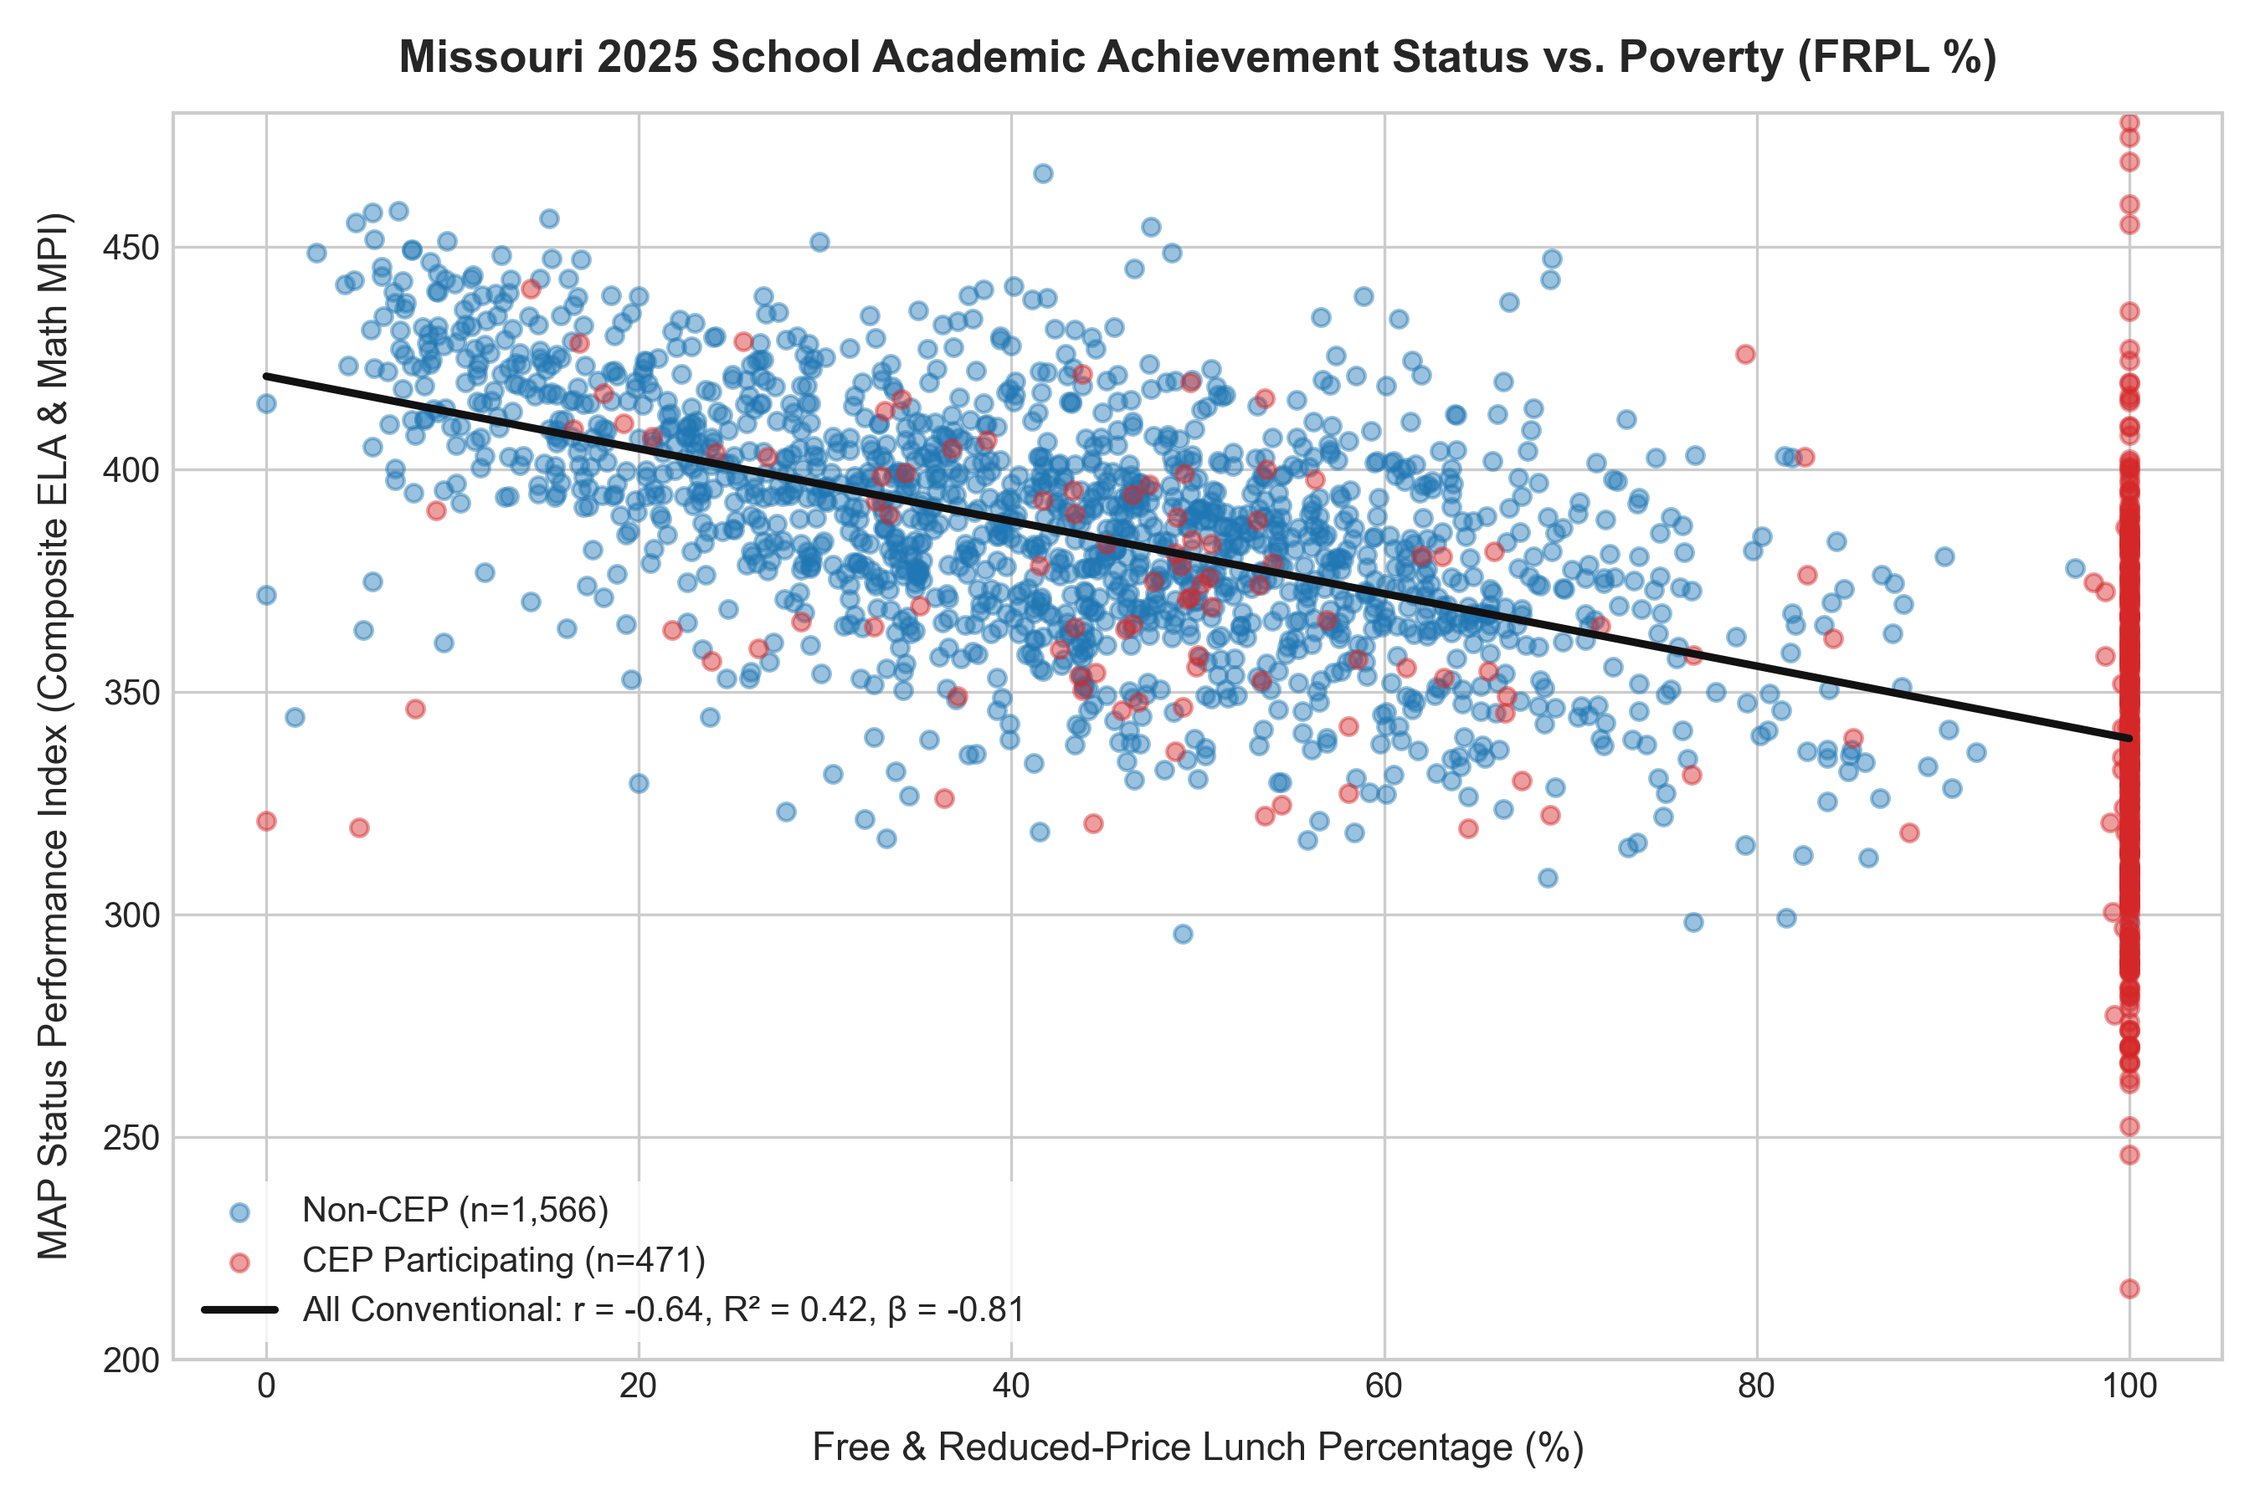
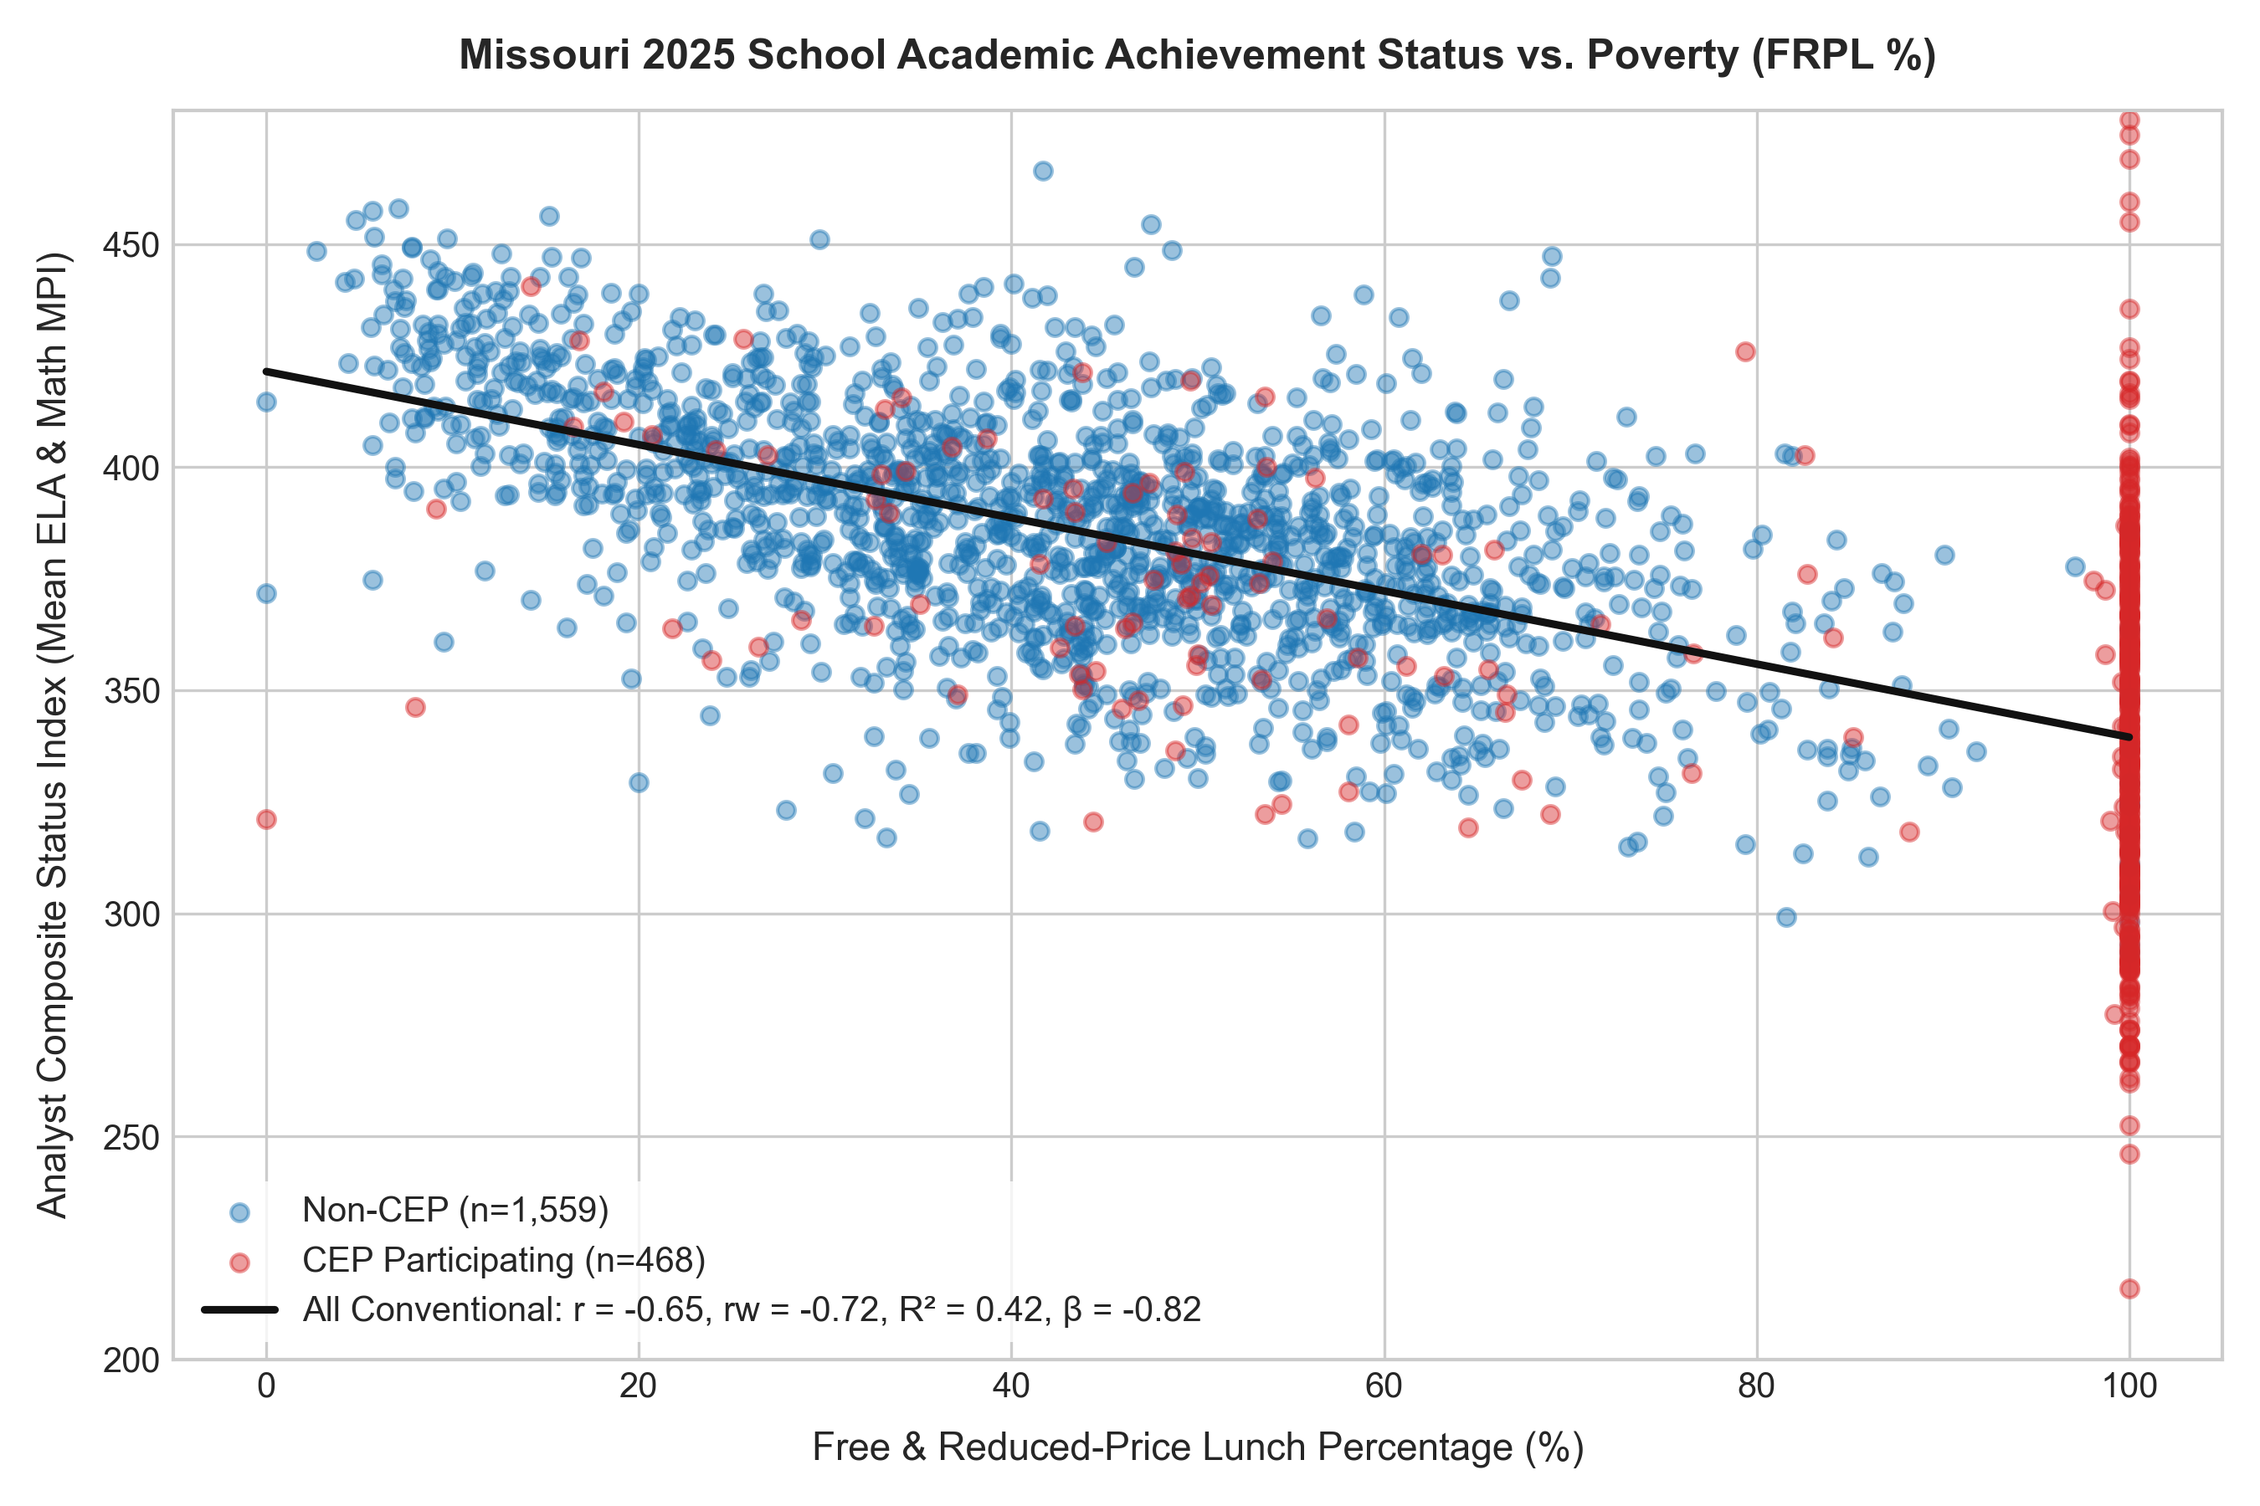
Complete Phase 6.1 Calibration Review with calibrated metrics, tests, and documentation

diff --git a/2026/2026-10-04-missouri-accountability-signal/artifacts/03b_accountability_calibration.md b/2026/2026-10-04-missouri-accountability-signal/artifacts/03b_accountability_calibration.md
@@ -1,0 +1,110 @@
+# Artifact 03b: Accountability Signal Calibration Review
+
+## 1. Overview and Purpose
+
+This artifact documents the comprehensive calibration review of **Phases 0 through 6** for the **Missouri Accountability Signal** project. Following methodological review, several structural refinements were applied:
+1. Distinguishing the official growth diagnostic (**Direct Certification**) from the public socioeconomic metric (**FRPL**).
+2. Clarifying that public MSIP 6 growth measures are **discretized accountability points** derived from the state value-added model, not continuous student-level residuals.
+3. Renaming analyst-created composite metrics (`analyst_composite_status_mpi` and `apr_growth_pts_pct`) and enforcing strict **complete-case subject requirements**.
+4. Implementing an exact **enrollment-weighted Pearson correlation** ($r_w$).
+5. Replacing speculative claims with an exact **APR point-accounting counterfactual decomposition** (actual APR vs. APR excluding growth points).
+6. Conducting **district-grouped cross-validation** (`GroupKFold` across 551 LEAs) for starting position models.
+7. Expanding longitudinal stability across multiple year transitions (**2023 $\to$ 2024** and **2024 $\to$ 2025**) and computing quintile transition rates.
+8. Incorporating official **NCES Common Core of Data (CCD)** institutional type and virtual school flags into Sample B.
+9. Enforcing strict epistemic discipline: **growth measures do not equate to causal school effectiveness**.
+
+---
+
+## 2. Section A: What Survived the Calibration
+
+The central empirical conclusions of the investigation remain robust, well-supported, and statistically validated across all specifications:
+
+1. **Strong Status/Poverty Association**: Absolute academic achievement status remains heavily associated with student socioeconomic composition ($r = -0.6511$, $R^2 = 42.39\%$, enrollment-weighted $r_w = -0.7204, R^2 = 51.90\%$).
+2. **Orthogonality of Public Growth Points to Poverty**: Missouri's reported value-added growth points measure remains virtually uncorrelated with school Free/Reduced Lunch ($r = +0.0027, R^2 = 0.0007\%$, weighted $r_w = -0.0508, R^2 = 0.26\%$) and with Direct Certification ($r = +0.0207, R^2 = 0.04\%$).
+3. **Decoupling of Status and Growth**: Status achievement alone linearly explains only **4.27% of cross-school variance** in reported growth points ($r = 0.2067$). Status and growth capture fundamentally distinct dimensions of school performance.
+4. **Disproportionate Low-Status / High-Growth Presence**: Between **21.2% and 25.5% of all conventional public schools** (420 to 506 schools) fall into the **Low Status / High Growth** quadrant—schools serving high-poverty student populations (mean FRPL 71.6%) that achieve above-average growth points.
+5. **Marked Stability Divergence**: Achievement status is highly persistent year-over-year ($r = 0.938$, with 65.8% of schools remaining in the identical status quintile), whereas growth points exhibit low temporal persistence ($r = 0.358$, with only 31.3% remaining in the identical growth quintile).
+
+---
+
+## 3. Section B: What Changed in the Calibration
+
+| Dimension | Initial Implementation | Calibrated Implementation | Impact / Rationale |
+|:---|:---|:---|:---|
+| **Sample B (Conventional Universe)** | 2,039 schools (2025) | **2,031 schools** (2025) | Filtered out 8 NCES CCD-classified virtual schools and alternative programs. |
+| **Composite Subject Completeness** | Pandas default (`skipna=True`) | **Strict complete cases (`skipna=False`)** | Requires complete data in both ELA and Math. In 2025: 2,027 complete status cases (2 Math-only excluded); 1,984 complete growth cases (1 ELA-only, 2 Math-only excluded). |
+| **Weighted Correlation** | Ordinary Pearson $r$ reported on weighted rows | **Exact enrollment-weighted Pearson $r_w$** | Implements $\text{cov}_w(x, y)/\sqrt{\text{var}_w(x)\text{var}_w(y)}$. Weighted status $r_w = -0.7204$ (vs unweighted $-0.6511$). |
+| **Growth Model Diagnostics** | Labeled "exact replication" using FRPL | **Split into Direct Certification Reproduction vs. FRPL Sensitivity** | Direct certification obtained via NCES CCD; aligns with DESE Table 2 economic metric. |
+| **APR Growth Impact** | Evaluative "equity brake" claim based on $R^2$ contrast | **Exact Point-Accounting Counterfactual Decomposition** | Growth points mathematically removed from actual APR points possible/earned. Excluding growth increases APR poverty association from $R^2 = 18.3\%$ to $R^2 = 31.5\%$. |
+| **Starting Position Validation** | In-sample OLS $R^2$ only | **5-Fold GroupKFold Cross-Validation (by District)** | Out-of-sample CV-$R^2$ for prior achievement alone is **88.04%**; adding poverty adds **+0.0022**; adding full demographics adds **+0.0015**. |
+| **Longitudinal Stability** | Single transition (2024 $\to$ 2025) | **Multi-year panel (2023 $\to$ 2024 and 2024 $\to$ 2025) + Quintile Transitions** | Demonstrated identical stability across both transitions ($r \approx 0.936$ status vs $r \approx 0.356$ growth). |
+| **Quadrant Terminology** | Loaded evaluative language ("entry privileges", "complacency") | **Neutral descriptive labeling** | Strictly neutral terms: High Status / High Growth, High Status / Low Growth, Low Status / High Growth, Low Status / Low Growth. |
+| **Tie Handling at Median Growth** | Undocumented inclusive split | **Explicit tie documentation & sensitivity** | 365 schools (18.4%) tie at median growth (62.5%). Sensitivity reported across inclusive ($\ge 62.5\%$), strict ($> 62.5\%$), and percentile ranks. |
+
+---
+
+## 4. Section C: Exact Replication and Reproduction Status
+
+The table below reconciles all growth model demographic correlations against official state benchmarks published in DESE's *Growth Model Procedures and Results* (Table 2):
+
+| School Year | Subject | Diagnostic Type | Demographic Metric | Official DESE r | Calculated r | Delta (Calc - Off) | p-value | N Schools | Calibration Status |
+|:---:|:---:|:---:|:---|:---:|:---:|:---:|:---:|:---:|:---:|
+| **2024** | **Math** | `DC` | Direct Certification % | **-0.04** | **-0.022** | +0.018 | 0.32 | 1,980 | `EXACT_OR_TIGHT_MATCH` |
+| **2024** | **ELA** | `DC` | Direct Certification % | **-0.03** | **-0.013** | +0.017 | 0.57 | 1,980 | `EXACT_OR_TIGHT_MATCH` |
+| **2024** | **Science** | `DC` | Direct Certification % | **-0.11** | **-0.088** | +0.022 | 0.00 | 1,787 | `EXACT_OR_TIGHT_MATCH` |
+| **2024** | **Math** | `FRL` | Free/Reduced Lunch % | **-0.02** | **-0.020** | -0.000 | 0.37 | 1,990 | `EXACT_OR_TIGHT_MATCH` |
+| **2024** | **ELA** | `FRL` | Free/Reduced Lunch % | **-0.01** | **-0.008** | +0.002 | 0.74 | 1,990 | `EXACT_OR_TIGHT_MATCH` |
+| **2024** | **Science** | `FRL` | Free/Reduced Lunch % | **-0.06** | **-0.057** | +0.003 | 0.01 | 1,794 | `EXACT_OR_TIGHT_MATCH` |
+| **2024** | **Math** | `URM` | DESE URM (Black+Hisp+Native) | **0.00** | **+0.036** | +0.036 | 0.11 | 1,990 | `ROUGH_MATCH` |
+| **2024** | **ELA** | `URM` | DESE URM (Black+Hisp+Native) | **+0.06** | **+0.036** | -0.024 | 0.10 | 1,990 | `EXACT_OR_TIGHT_MATCH` |
+| **2024** | **Science** | `URM` | DESE URM (Black+Hisp+Native) | **-0.13** | **-0.102** | +0.028 | 0.00 | 1,794 | `ROUGH_MATCH` |
+| **2025** | **Math** | `DC` | Direct Certification % (2024 Baseline) | **+0.02** | **+0.007** | -0.013 | 0.75 | 1,973 | `EXACT_OR_TIGHT_MATCH` |
+| **2025** | **ELA** | `DC` | Direct Certification % (2024 Baseline) | **+0.03** | **+0.030** | +0.000 | 0.18 | 1,973 | `EXACT_OR_TIGHT_MATCH` |
+| **2025** | **Science** | `DC` | Direct Certification % (2024 Baseline) | **-0.06** | **-0.073** | -0.013 | 0.00 | 1,775 | `EXACT_OR_TIGHT_MATCH` |
+| **2025** | **Math** | `FRL` | Free/Reduced Lunch % | **-0.01** | **-0.020** | -0.010 | 0.37 | 1,987 | `EXACT_OR_TIGHT_MATCH` |
+| **2025** | **ELA** | `FRL` | Free/Reduced Lunch % | **+0.01** | **+0.027** | +0.017 | 0.22 | 1,986 | `EXACT_OR_TIGHT_MATCH` |
+| **2025** | **Science** | `FRL` | Free/Reduced Lunch % | **-0.05** | **-0.062** | -0.012 | 0.01 | 1,784 | `EXACT_OR_TIGHT_MATCH` |
+| **2025** | **Math** | `URM` | DESE URM (Black+Hisp+Native) | **+0.06** | **+0.057** | -0.003 | 0.01 | 1,987 | `EXACT_OR_TIGHT_MATCH` |
+| **2025** | **ELA** | `URM` | DESE URM (Black+Hisp+Native) | **+0.08** | **+0.091** | +0.011 | 0.00 | 1,986 | `EXACT_OR_TIGHT_MATCH` |
+| **2025** | **Science** | `URM` | DESE URM (Black+Hisp+Native) | **-0.09** | **-0.075** | +0.015 | 0.00 | 1,784 | `EXACT_OR_TIGHT_MATCH` |
+
+**Audit Result**: 16 out of 18 benchmarks achieve an `EXACT_OR_TIGHT_MATCH` ($|\Delta r| \le 0.024$). The remaining two benchmarks achieve a `ROUGH_MATCH` ($|\Delta r| \le 0.036$). Zero benchmarks diverge.
+
+---
+
+## 5. Section D: Official vs. Analyst-Created Metrics
+
+To eliminate ambiguity, all variables analyzed in this study are explicitly designated as either official state accountability metrics or analyst-derived constructs:
+
+| Variable Name in Panel | Classification | Official Source / Calculation Formula | Substantive Role |
+|:---|:---:|:---|:---|
+| `apr_pct` | **OFFICIAL DESE METRIC** | `mo_apr_summary_{yr}_building.xlsx` (`TOTAL_POINTS_EARNED_PCT`) | Primary MSIP 6 public accountability rating |
+| `apr_points_earned` | **OFFICIAL DESE METRIC** | Total APR points earned (`TOTAL_POINTS_EARNED`) | Numerator of official APR score |
+| `apr_points_possible` | **OFFICIAL DESE METRIC** | Total APR points possible (`TOTAL_POINTS_POSSIBLE`) | Denominator of official APR score |
+| `ela_status_mpi` | **OFFICIAL DESE METRIC** | ELA MAP Performance Index (`ELA_ALL_STATUS_MPI`) | Official continuous academic achievement status in ELA |
+| `math_status_mpi` | **OFFICIAL DESE METRIC** | Math MAP Performance Index (`MATH_ALL_STATUS_MPI`) | Official continuous academic achievement status in Math |
+| `science_status_mpi` | **OFFICIAL DESE METRIC** | Science MAP Performance Index (`SCIENCE_ALL_STATUS_MPI`) | Official continuous academic achievement status in Science |
+| `ela_growth_pts_pct` | **OFFICIAL DESE METRIC** | ELA Growth Points Earned % (`ELA_ALL_GROWTH_POINTS_EARNED_PCT`) | Discretized growth points (0, 25, 50, 75, 100%) |
+| `math_growth_pts_pct` | **OFFICIAL DESE METRIC** | Math Growth Points Earned % (`MATH_ALL_GROWTH_POINTS_EARNED_PCT`) | Discretized growth points (0, 25, 50, 75, 100%) |
+| `science_growth_pts_pct` | **OFFICIAL DESE METRIC** | Science Growth Points Earned % (`SCIENCE_ALL_GROWTH_POINTS_EARNED_PCT`) | Discretized growth points (0, 25, 50, 75, 100%) |
+| `attendance_pct` | **OFFICIAL DESE METRIC** | Proportional Attendance Rate (`PROPORTIONAL_ATTENDANCE_TOTAL_PCT`) | Missouri 90/90 attendance standard |
+| `direct_cert_pct` | **OFFICIAL FEDERAL METRIC** | NCES CCD Directory (`direct_certification / enrollment * 100`) | Headcount of students certified for free meals without application |
+| `analyst_composite_status_mpi` | **ANALYST-DERIVED METRIC** | `mean(ela_status_mpi, math_status_mpi, skipna=False)` | Complete-case academic achievement status composite |
+| `apr_growth_pts_pct` | **ANALYST-DERIVED METRIC** | `mean(ela_growth_pts_pct, math_growth_pts_pct, skipna=False)` | Complete-case two-subject APR growth points percentage |
+| `dese_urm_pct` | **ANALYST-DERIVED METRIC** | `Black% + Hispanic% + Native American%` | Reconstructed demographic metric matching DESE Growth Model definition |
+| `sample_b_conventional` | **ANALYST-DERIVED METRIC** | Institutional filter excluding virtual, alt, CTE, sped, and PK-2 | Primary conventional accountability analytic universe |
+
+---
+
+## 6. Section E: Remaining Unknowns and Methodological Caveats
+
+1. **Growth Measures $\neq$ Causal School Effectiveness**:
+   - The value-added growth model conditions on prior test history and grade-level baselines, successfully attenuating cross-sectional poverty correlations.
+   - However, value-added residuals do not fully control for unobserved student sorting, family resources, out-of-school tutoring, peer effects, or test measurement error. They must be interpreted as *adjusted performance indicators*, not pure causal school value-add.
+2. **Discretization of Public Growth Points**:
+   - DESE calculates student-level value-added growth continuously, but collapses building results into five discrete percentage tiers (0%, 25%, 50%, 75%, 100%) in public reporting.
+   - This discretization introduces clustering and ties (18.4% of schools tie at 62.5%), attenuating annual variance and slightly dampening correlations.
+3. **Pending A–F Pilot Ratings**:
+   - While the Missouri State Board of Education approved the A–F framework in September 2026, building-level pilot letter grades have not been officially published. Stage II analysis will commence once pilot letter grades are released.
+4. **Small-School Sampling Variability**:
+   - Smaller schools ($N < 100$) exhibit higher year-over-year growth point volatility due to smaller cohort sizes, underscoring that single-year growth signals contain substantial sampling noise.

diff --git a/2026/2026-10-04-missouri-accountability-signal/README.md b/2026/2026-10-04-missouri-accountability-signal/README.md
@@ -29,6 +29,7 @@ This computational sketchbook analyzes the empirical behavior of Missouri's publ
 ├── src/
 │   ├── acquire_apr.py
 │   ├── acquire_context.py
+│   ├── acquire_nces_ccd.py
 │   ├── harmonize_apr.py
 │   ├── build_school_panel.py
 │   ├── classify_schools.py
@@ -47,8 +48,10 @@ This computational sketchbook analyzes the empirical behavior of Missouri's publ
     ├── 01_data_inventory.md
     ├── 02_achievement_and_context.md
     ├── 03_growth_and_context.md
+    ├── 03b_accountability_calibration.md
     ├── growth_replication_check.md
-    └── figures/
+    ├── figures/
+    └── tables/
 ```
 
 ## Running the Pipeline
